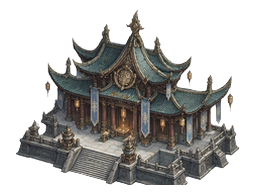
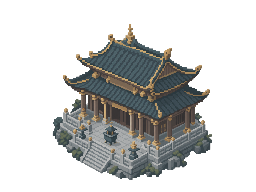
v2.6.2 逆尘：建筑全部收口 11/11（像素等距完成）
续 v2.6.0/v2.6.1（建筑 5 + 2 张），本版把剩余 4 张出完：
struct.hall 城主府 / struct.ruin 废墟 / struct.temple 神殿 / struct.tower 论道台。

一、建筑 11/11 完成
- A.ISO_NATIVE 现**包含全部 11 个 struct 键** —— "代码补侧面"分支当前
  **没有建筑会走到**（保留它是为了兼容将来新增的非等距素材）。
- 透明底 49~64%，均为像素等距双面。

二、⚠ 定稿"新增建筑键的三处同步"（漏一处就静默出错）
  1. _gen/struct.<bk>.png 原图 + tools/pixel-gen.py 主题表；
  2. tools/assets-build.py: PIXEL_KEYS —— **不加 → LANCZOS 磨掉像素感**；
  3. js/core/art.js: A.ISO_NATIVE —— **不加 → 多一份代码侧面**（双份）。
  三者必须与出图**同一次提交**。

三、出图提示词定稿加"禁止文字"句
"⚠ 画面中不要出现任何文字、汉字、匾额、招牌或对联，
 所有牌匾位置一律留空为素面木板。"
（v2.6.1 客栈第一版把"仙侠客栈""酒"烘进了图里，与矢量匾额会双重显示。）

四、范围核对
git status 核对为仅 struct.hall/ruin/temple/tower 四张，未误伤其它。

五、回归
smoke / playthrough / rebirth / dungeon-run / secret-test / zone-curve 全过。

六、进度
- 地面 33/33 ✅ · 建筑 11/11 ✅ —— **世界层已全部像素化**。
- 待办：行走精灵 33 · 立绘 48 · 图标/道具（可选）。

diff --git a/www/js/core/art.js b/www/js/core/art.js
@@ -1258,8 +1258,13 @@
     'struct.alchemy': 1,
     'struct.gate': 1,
     'struct.inn': 1,
-    /* ⏳ 仍是旧正视素材（未重出）：hall / ruin / temple / tower
-       —— 它们**不在**表里，`_drawStructure` 仍会给它们补代码侧面。 */
+    'struct.hall': 1,
+    'struct.ruin': 1,
+    'struct.temple': 1,
+    'struct.tower': 1,
+    /* ✅ v2.6.2 起：**全部 11 个 struct 键都已是像素等距素材** ——
+       所以下面不再有"未重出"的例外。新增建筑键时记得**同时**加进这里
+       （否则会多一份代码侧面）。 */
   };
   A.isIsoNative = function (key) { return !!A.ISO_NATIVE[key]; };
 

diff --git a/www/js/core/ns.js b/www/js/core/ns.js
@@ -3,7 +3,7 @@ window.G = window.G || {};
 /* 游戏内版本号（标题「关于」与关于页显示）。
    ⚠ **必须与 HANDOVER.md 头部「代码版本」一致** —— 它从 v0.0.2 起就没再同步过，
    一直显示成初始占位（v0.12.0 才发现）。由 smoke 的 `version.contract` 钉住。 */
-G.VERSION = 'v2.6.0';
+G.VERSION = 'v2.6.2';
 
 /* ===== 像素风开关（v2.0.0）=====
    用户口径：「转成像素风格，但是现在的素材不要丢弃，可以作为对话或者动画的原图，

diff --git a/tools/assets-build.py b/tools/assets-build.py
@@ -389,7 +389,7 @@ PIXEL_KEYS = set([
     'ground.town', 'ground.grass', 'ground.cave', 'ground.bloodcave',
     # 建筑（v2.6.0 起逐张重出；**换一张就加一行**）
     'struct.house', 'struct.apothecary', 'struct.shop', 'struct.smithy', 'struct.alchemy',
-    'struct.gate', 'struct.inn',
+    'struct.gate', 'struct.inn', 'struct.hall', 'struct.ruin', 'struct.temple', 'struct.tower',
 ])
 
 

diff --git a/HANDOVER.md b/HANDOVER.md
@@ -1,6 +1,32 @@
 # 《逆尘》开发交接文档
 
-> 最后更新：2026-10-09 · 代码版本 **v2.6.0（建筑像素化启动 + 双面分派）** · 设计基线 **GDD v4.0（文档归档重构）** · 前一里程碑 v2.5.0
+> 最后更新：2026-10-09 · 代码版本 **v2.6.2（建筑 11/11 像素化完成）** · 设计基线 **GDD v4.0（文档归档重构）** · 前一里程碑 v2.6.1
+>
+> **【v2.6.2 建筑全部收口：11/11 张均为像素等距 2026-10-09】**
+> 续 v2.6.0/v2.6.1（建筑 5 + 2 张），本版把剩余 4 张
+> （`struct.hall` 城主府 / `struct.ruin` 废墟 / `struct.temple` 神殿 /
+> `struct.tower` 论道台）出完。
+>
+> **① 建筑 11/11 完成** —— `A.ISO_NATIVE` 现在**包含全部 11 个 struct 键**，
+> 即"代码补侧面"那条分支**当前没有建筑会走到**（保留它是为了兼容将来新增的
+> 非等距素材）。透明底 49~64%，均为像素等距双面。
+>
+> **② ⚠ 新增建筑键时的**三处同步**（漏一处就静默出错）**
+> 1. `_gen/struct.<bk>.png` + `tools/pixel-gen.py` 的主题表；
+> 2. `tools/assets-build.py: PIXEL_KEYS` —— **不加这行，素材会被 LANCZOS 磨掉像素感**；
+> 3. `js/core/art.js: A.ISO_NATIVE` —— **不加这行，建筑会多一份代码侧面**（双份）。
+> 三者必须与出图**同一次提交**。
+>
+> **③ 出图提示词必须显式禁止文字**（v2.6.1 踩过）：
+> 客栈第一版把"仙侠客栈""酒"烘进了图里，而本项目**建筑名一律矢量叠加**
+> （`explore.js: _drawPlaque`）→ 会双重显示、且一张图被锁死成一个名字。
+> 定稿加句：`⚠ 画面中不要出现任何文字、汉字、匾额、招牌或对联，
+> 所有牌匾位置一律留空为素面木板。`
+>
+> **④ 进度**：地面 33/33 ✅ · 建筑 11/11 ✅ ——
+> **世界层（地面 + 建筑）已全部像素化**。
+> 待办：行走精灵 33 · 立绘 48 · 图标/道具（可选）。
+
 >
 > **【v2.6.0 建筑像素化启动 + 解决"双面叠加"阻塞 2026-10-09】**
 > 续 v2.5.0（地面 33/33 收口），本版开始重出建筑，并**先拆掉挡在前面的技术阻塞**。
@@ -2279,6 +2305,15 @@ node_modules/
 > 比这里记得全）。想回溯那几轮就 `git log --oneline` 挑出来 `git show <sha>`。
 > 下面是 v2.1.0 / v2.0.0 / v0.66.0 与更早的 v0.43.0。
 > （v1.0.0 – v1.9.5 的等距化整段说明也在**提交正文**与**头部增量块**里。）
+
+### v2.6.2：建筑全部收口 11/11（2026-10-09）
+
+1. 出完剩余 4 张：`struct.hall` / `struct.ruin` / `struct.temple` / `struct.tower`。
+2. **`A.ISO_NATIVE` 现含全部 11 个 struct 键** —— "代码补侧面"分支当前无建筑走到
+   （保留以兼容将来新增的非等距素材）。
+3. 定稿"新增建筑键的三处同步"：出图 → `PIXEL_KEYS` → `ISO_NATIVE`，同一次提交。
+4. 出图提示词定稿加"禁止文字"句（匾额矢量叠加的纪律，v2.6.1 踩过）。
+5. **世界层（地面 33 + 建筑 11）像素化完成**。待办：行走精灵 33 · 立绘 48。
 
 ### v2.6.0：建筑像素化启动 + 双面分派（2026-10-09）
 
